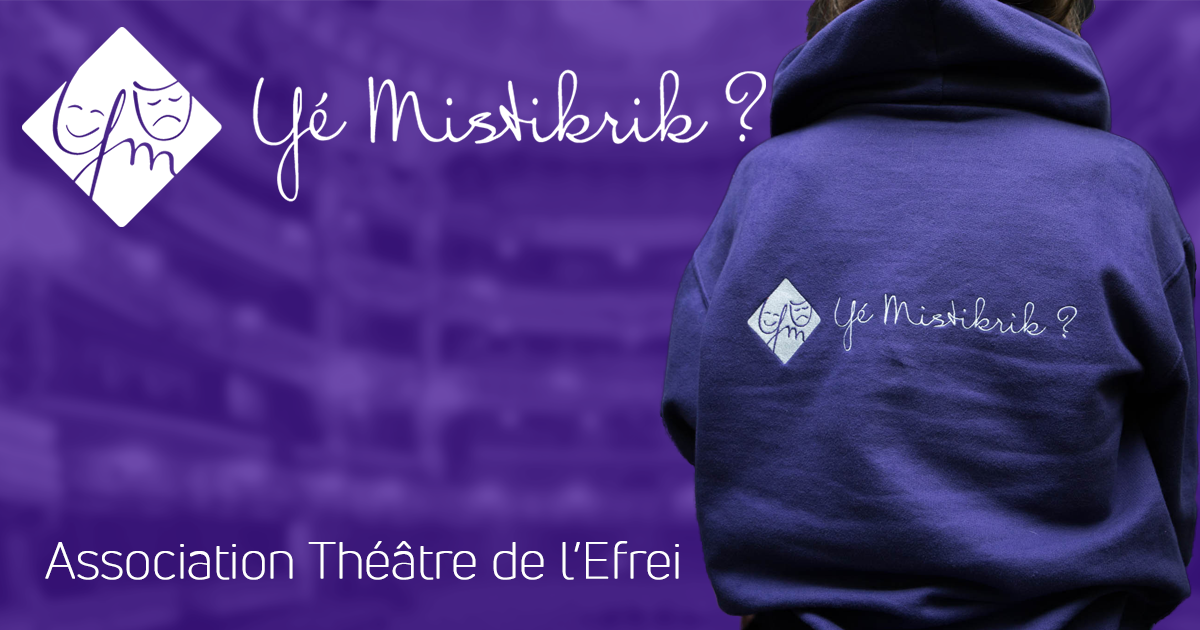
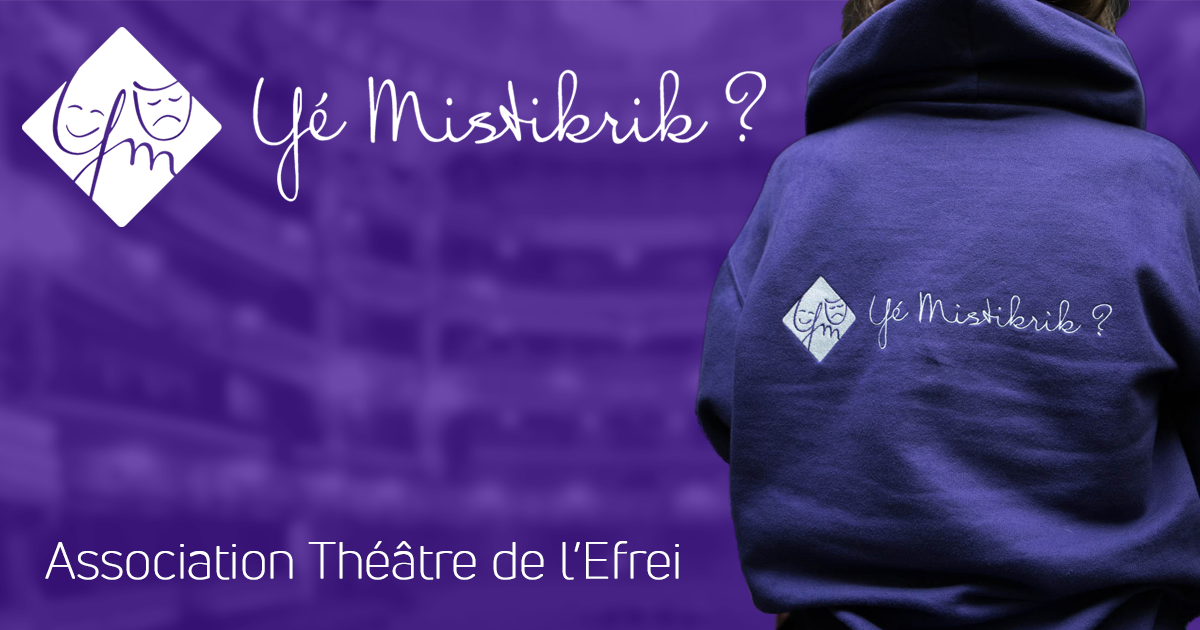
Twitter OpenGraph meta

Changed region(s): [[0.5242, 0.0, 1.0, 1.0]]

diff --git a/index.html b/index.html
@@ -20,6 +20,10 @@
   <!--<meta property="fb:app_id" content="XX" />
   <meta property="og:url" content="" />
   -->
+
+  <meta property="twitter:card" content="summary_large_image" />
+  <meta property="twitter:description" content="Envie de découvrir le théâtre, l'improvisation, le stand-up? Rejoignez notre association étudiante !" />
+  <meta property="twitter:image" content="img/Facebook-OpenGraph.png" />
   
 
   <!-- Favicon -->
